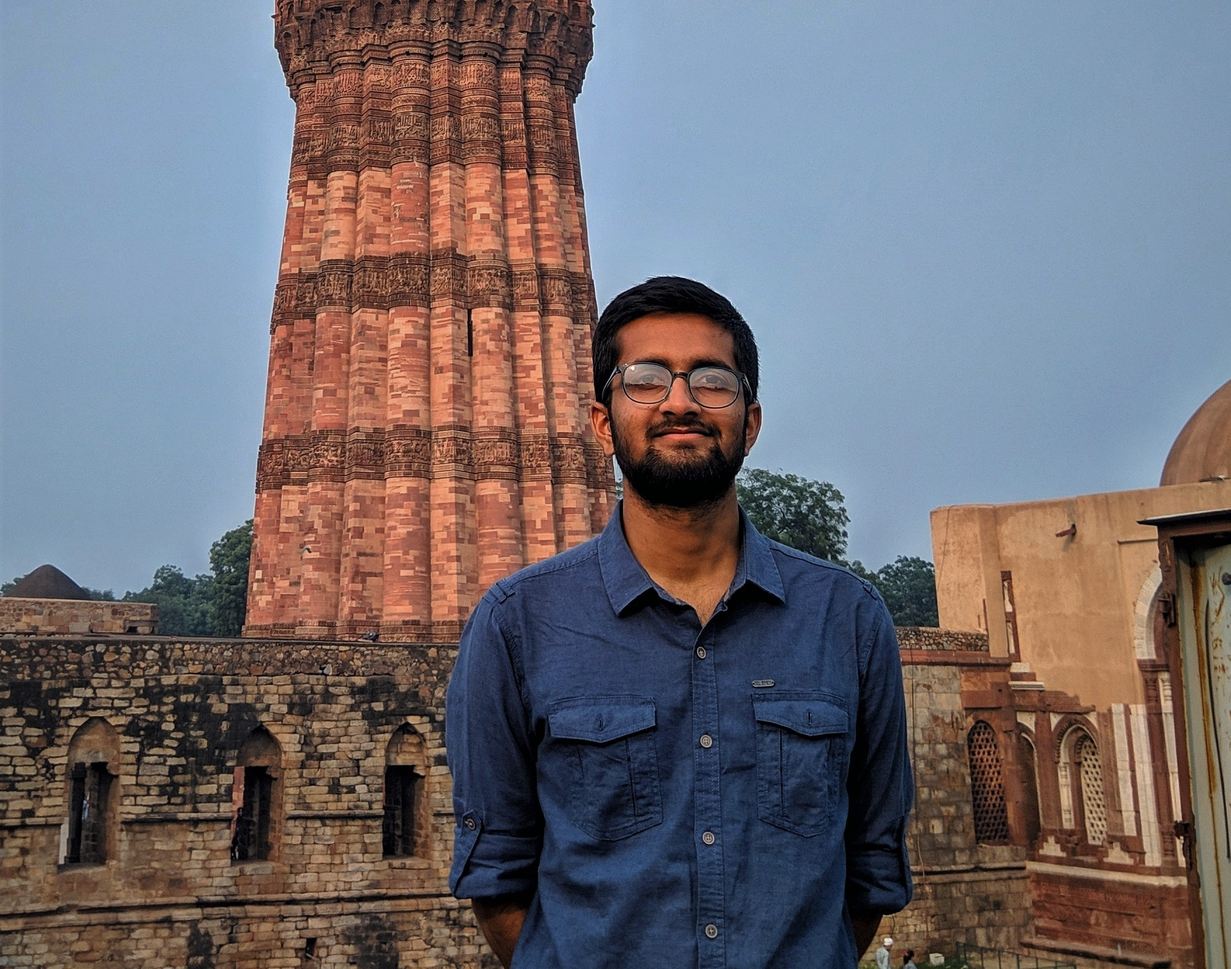
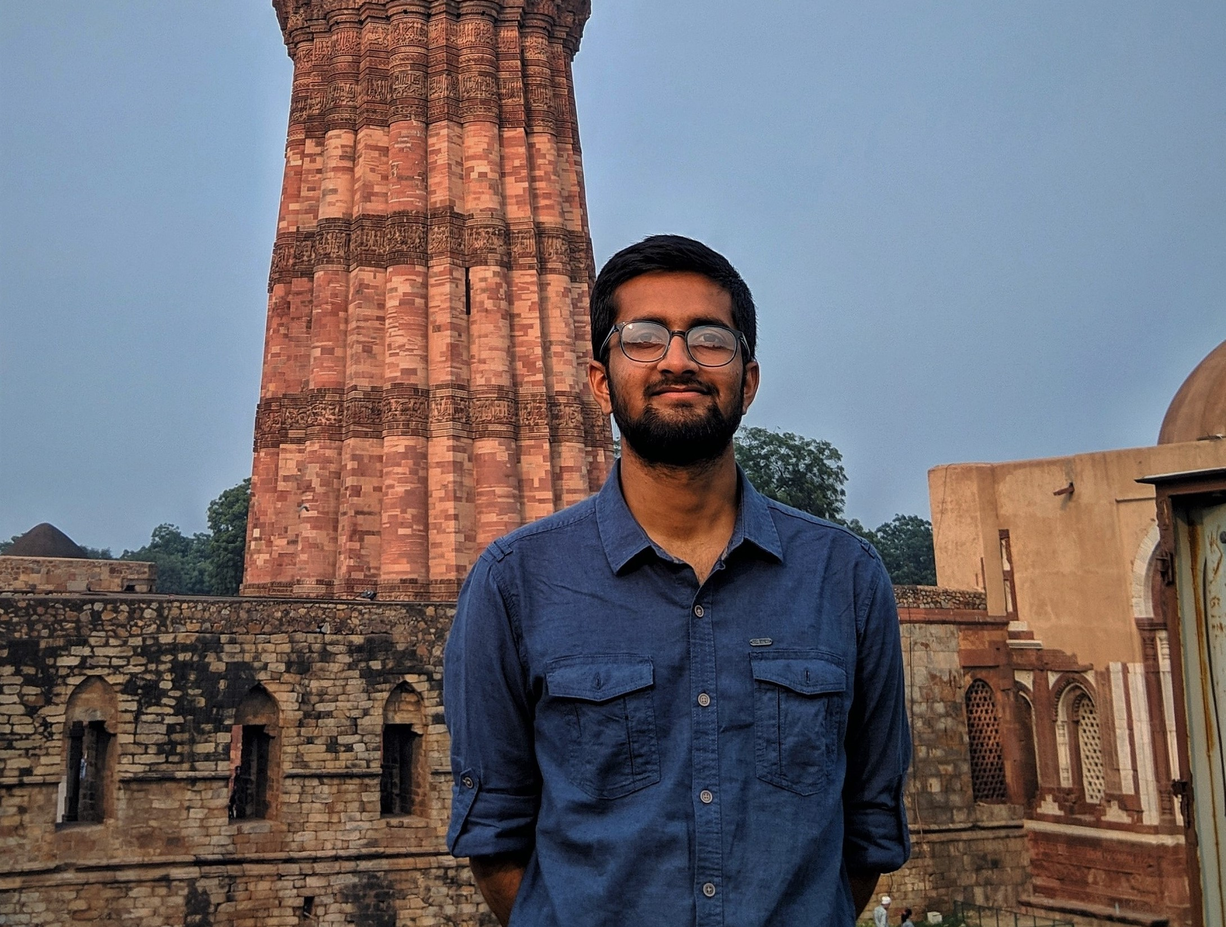
Update image

diff --git a/_pages/about.md b/_pages/about.md
@@ -24,7 +24,7 @@ I am also a footballer and take a huge interest in European football. I was the 
 
 <img src="https://danishsaeed2.github.io/images/danish.jpeg"
      alt="Danish Saeed"
-     style="width:500px; height:393px; border-radius:1%; border:1px solid #51555d;"
+     style="width:450px; height:340px; border-radius:1%; border:1px solid #51555d;"
 		 class="center"/>
 
 Kaggle profile: [https://www.kaggle.com/danishsaeed15](https://www.kaggle.com/danishsaeed15){:target="_blank"} <br/>
